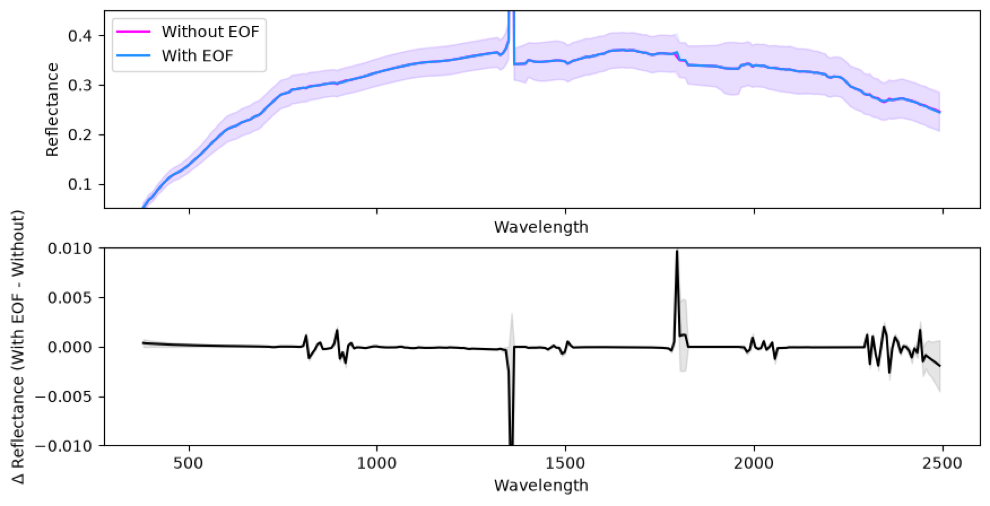
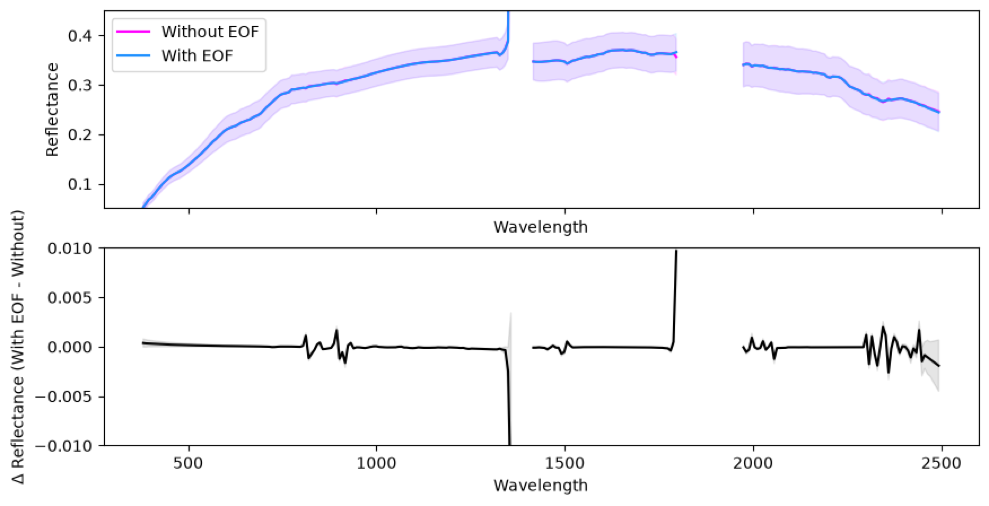
Adding comparison figures

diff --git a/docs/EMITL2A_v1_v2_DELTA.md b/docs/EMITL2A_v1_v2_DELTA.md
@@ -81,6 +81,8 @@ Version 2 Level 2A products address minor issues across the spectrum. In general
 
 ## 2. Summary of Changes
 
+### 2.7. Updated L1B radiometry and wavelength solutions
+
 ### 2.1. Updated Radiative Transfer Formalism (Forward Model) [↑](#table-of-contents)
 
 Version 2 updates the radiative transfer formalism, i.e., the forward model, which quantifies light transfer through the atmosphere and surface. Version 2 leverages a form, which accounts for six distinct photon paths (ATBD Section 3.2.1; Vermote et al., 1997):
@@ -184,27 +186,28 @@ Version 2 alters the prior distribution for all surface types. First, spectra th
 
 
 ### 2.5. Variable atmospheric $CO_2$
+
+<p align="center">
+    <img src="img_v1_v2_delta/fig14.png" width="85%", alt="Figure 14">
+</p>
+
+*Figure 13.*
+
 ### 2.6. Constrained Aerosol Optical Depth Prior Variance
-### 2.7. Updated L1B radiometry and wavelength solutions
+
+<p align="center">
+    <img src="img_v1_v2_delta/fig15.png" width="85%", alt="Figure 15">
+</p>
+
+*Figure 15.*
+
 ### 2.8. Removed pressure elevation from solution state
 
 <p align="center">
-    <img src="img_v1_v2_delta/fig10.png" width="100%", alt="Figure 10">
+    <img src="img_v1_v2_delta/fig16.png" width="85%", alt="Figure 16">
 </p>
 
-*Figure 10. Comparing spatially interpolated maps of atmospheric variables with (top) pressure elevation turned on and (bot) pressure elevation turned off. The EMIT ID shown here is emit20240626t165035.*
-
-<p align="center">
-    <img src="img_v1_v2_delta/fig11.png" width="100%", alt="Figure 11">
-</p>
-
-*Figure 11. Histograms of atmospheric solutions.*
-
-<p align="center">
-    <img src="img_v1_v2_delta/fig12.png" width="100%", alt="Figure 12">
-</p>
-
-*Figure 12. (top) Scene-wide mean and 1.96 * standard deviation reflectance for scenes processed with and without pressure elevation. (bot) Wavelength-specific residual calculated per-pixel as scene processed with pressure elevation - without pressure elevation.*
+*Figure 16.*
 
 ### 2.9. Edited atmospheric length scales
 
